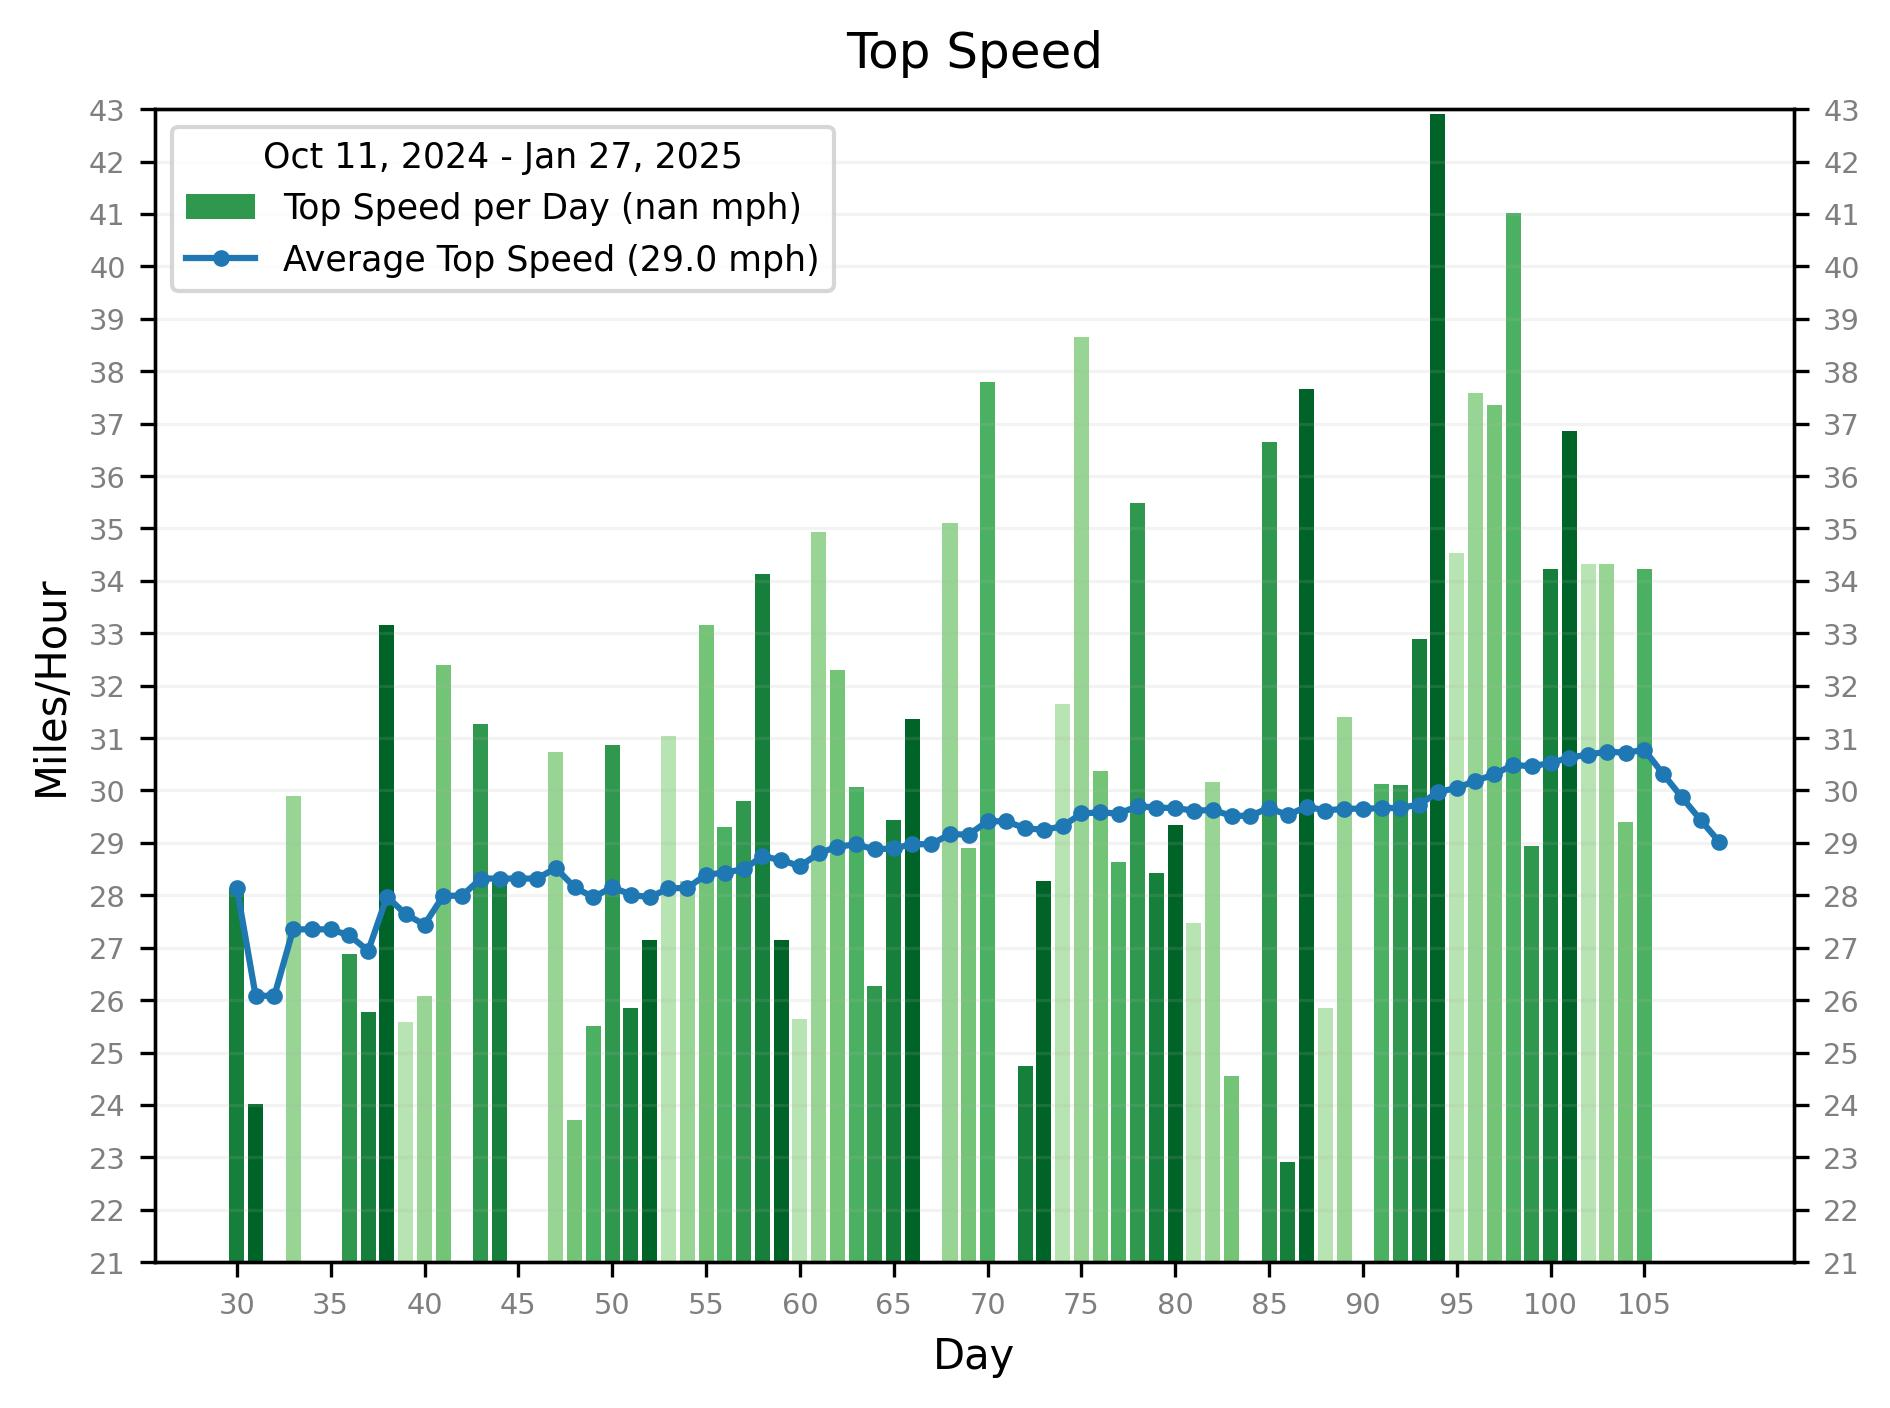
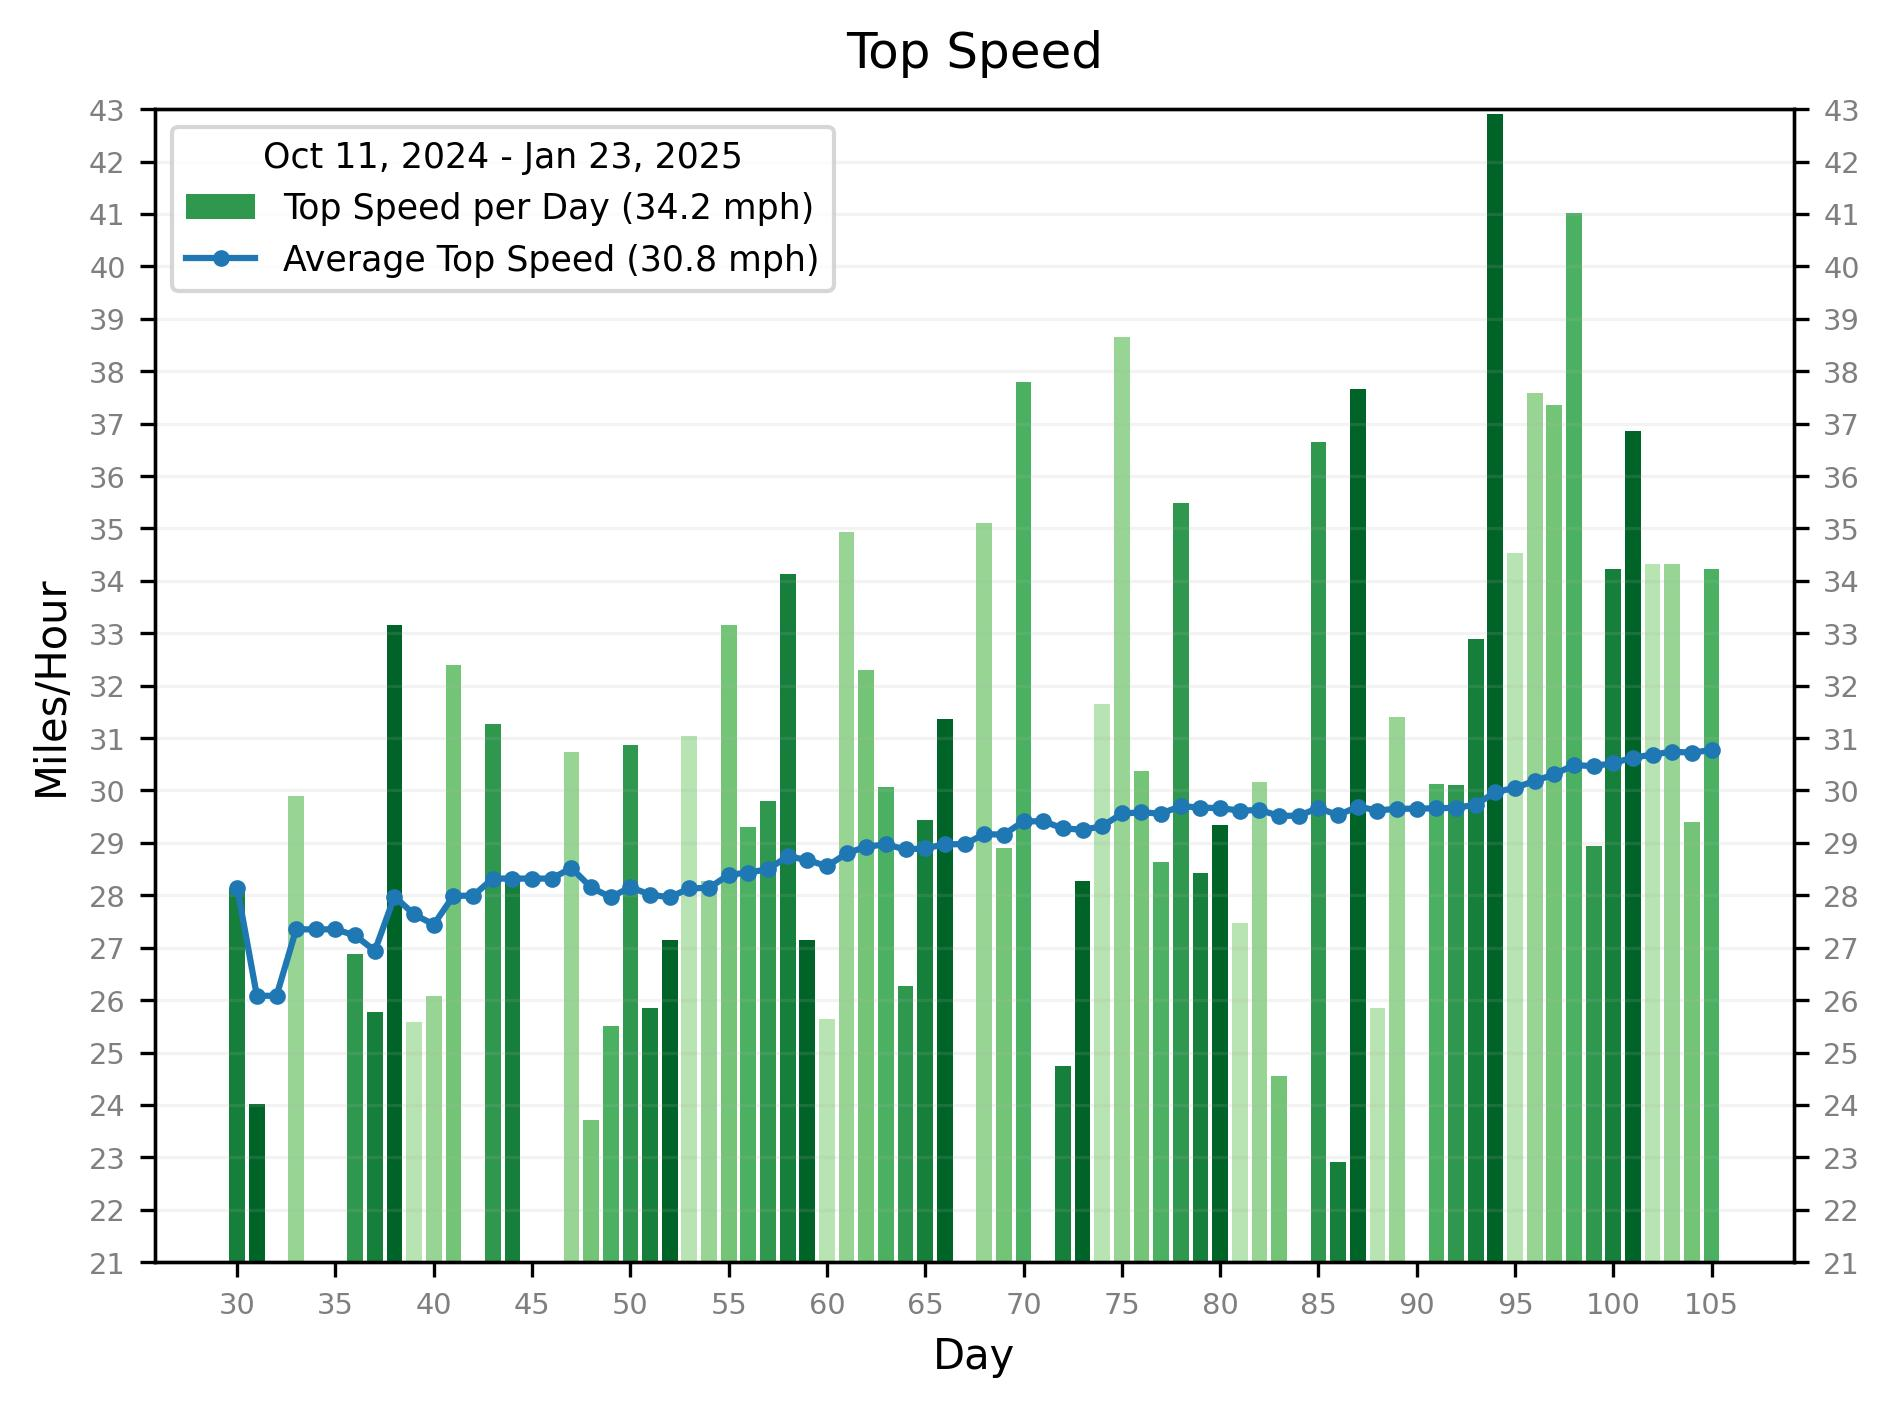
publish updates

Changed region(s): [[0.1249, 0.0625, 0.9365, 0.9375], [0.3434, 0.125, 0.437, 0.1875]]

diff --git a/docs/console.html b/docs/console.html
@@ -1,13 +1,13 @@
 <pre>
-Date range: 2024-10-11 to 2025-01-27
+Date range: 2024-10-11 to 2025-01-23
 
 days  total  biked  tracked  skipped  ride rate
       -----  -----  -------  -------  ---------
-        109    100     70        9     91.74%
+        105     96     66        9     91.43%
 
 distance (miles)  min   max   avg   total
                   ----  ----  ----  -------
-                   6.9  31.4  15.5   1549.6
+                   6.9  31.4  15.5   1489.6
 
 speed (mph)  min   max   avg
              ----  ----  ----
@@ -15,13 +15,13 @@ speed (mph)  min   max   avg
 
 top speed (mph)  min   max   avg
                  ----  ----  ----
-                 22.9  42.9  29.0
+                 22.9  42.9  30.8
 
 elevation gain (ft)  min   max   avg   total    total miles
                      ----  ----  ----  -------  -----------
-                      287  2212   845    59187         11.2
+                      287  2212   848    55987         10.6
 
 elevation range (ft)  low:  min   max   avg   high:  min   max   avg
                             ----  ----  ----         ----  ----  ----
-                             17   329   136           390  1088   543
+                             17   329   144           390  1088   576
 </pre>
